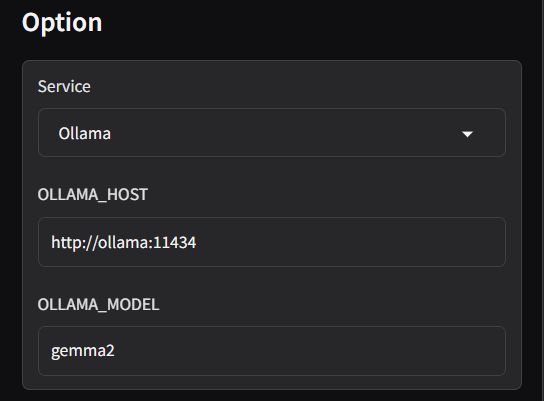
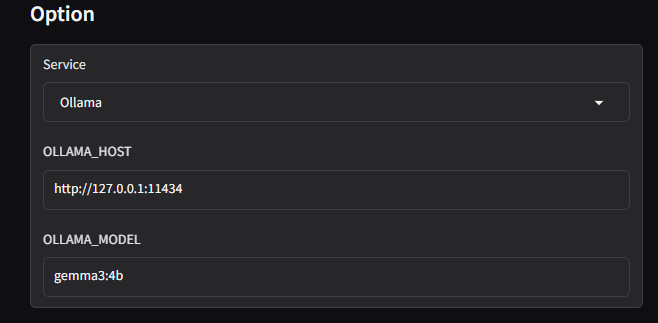
update readme

Changed region(s): [[0.0312, 0.0, 1.0, 1.0], [0.0312, 0.0, 0.1875, 0.0929], [0.8438, 0.3096, 0.875, 0.3406]]

diff --git a/README.md b/README.md
@@ -11,23 +11,32 @@
     docker exec -it <ollama_container_id> bash
     ```
     を実行して，ollamaに適切にモデルをpullする．
-    今回はgemma2をpullする．
+    今回はgemma3:4bをpullする．
     ```
-    ollama pull gemma2
+    ollama pull gemma3:4b
     ```
-2. ブラウザで
+3. python環境内で
+    ``` bash
+    pip install pdf2zh
+
+    pdf2zh -i
+    ```
+    を実行する。
+
+4. ブラウザで
     ```
     localhost:7860
     ```
     アクセスする．
-3.  翻訳したいpdfファイルをアップロードする．
+
+5.  翻訳したいpdfファイルをアップロードする．
 
     option欄を以下のように設定
     ![option欄](./img.png)
 
-4. Translate from と Translate to を任意に設定する．
+6. Translate from と Translate to を任意に設定する．
 
-5. Translated から翻訳語のpdfがダウンロードできる．
+7. Translated から翻訳語のpdfがダウンロードできる．
 
 ## 参考
 https://github.com/Byaidu/PDFMathTranslate
